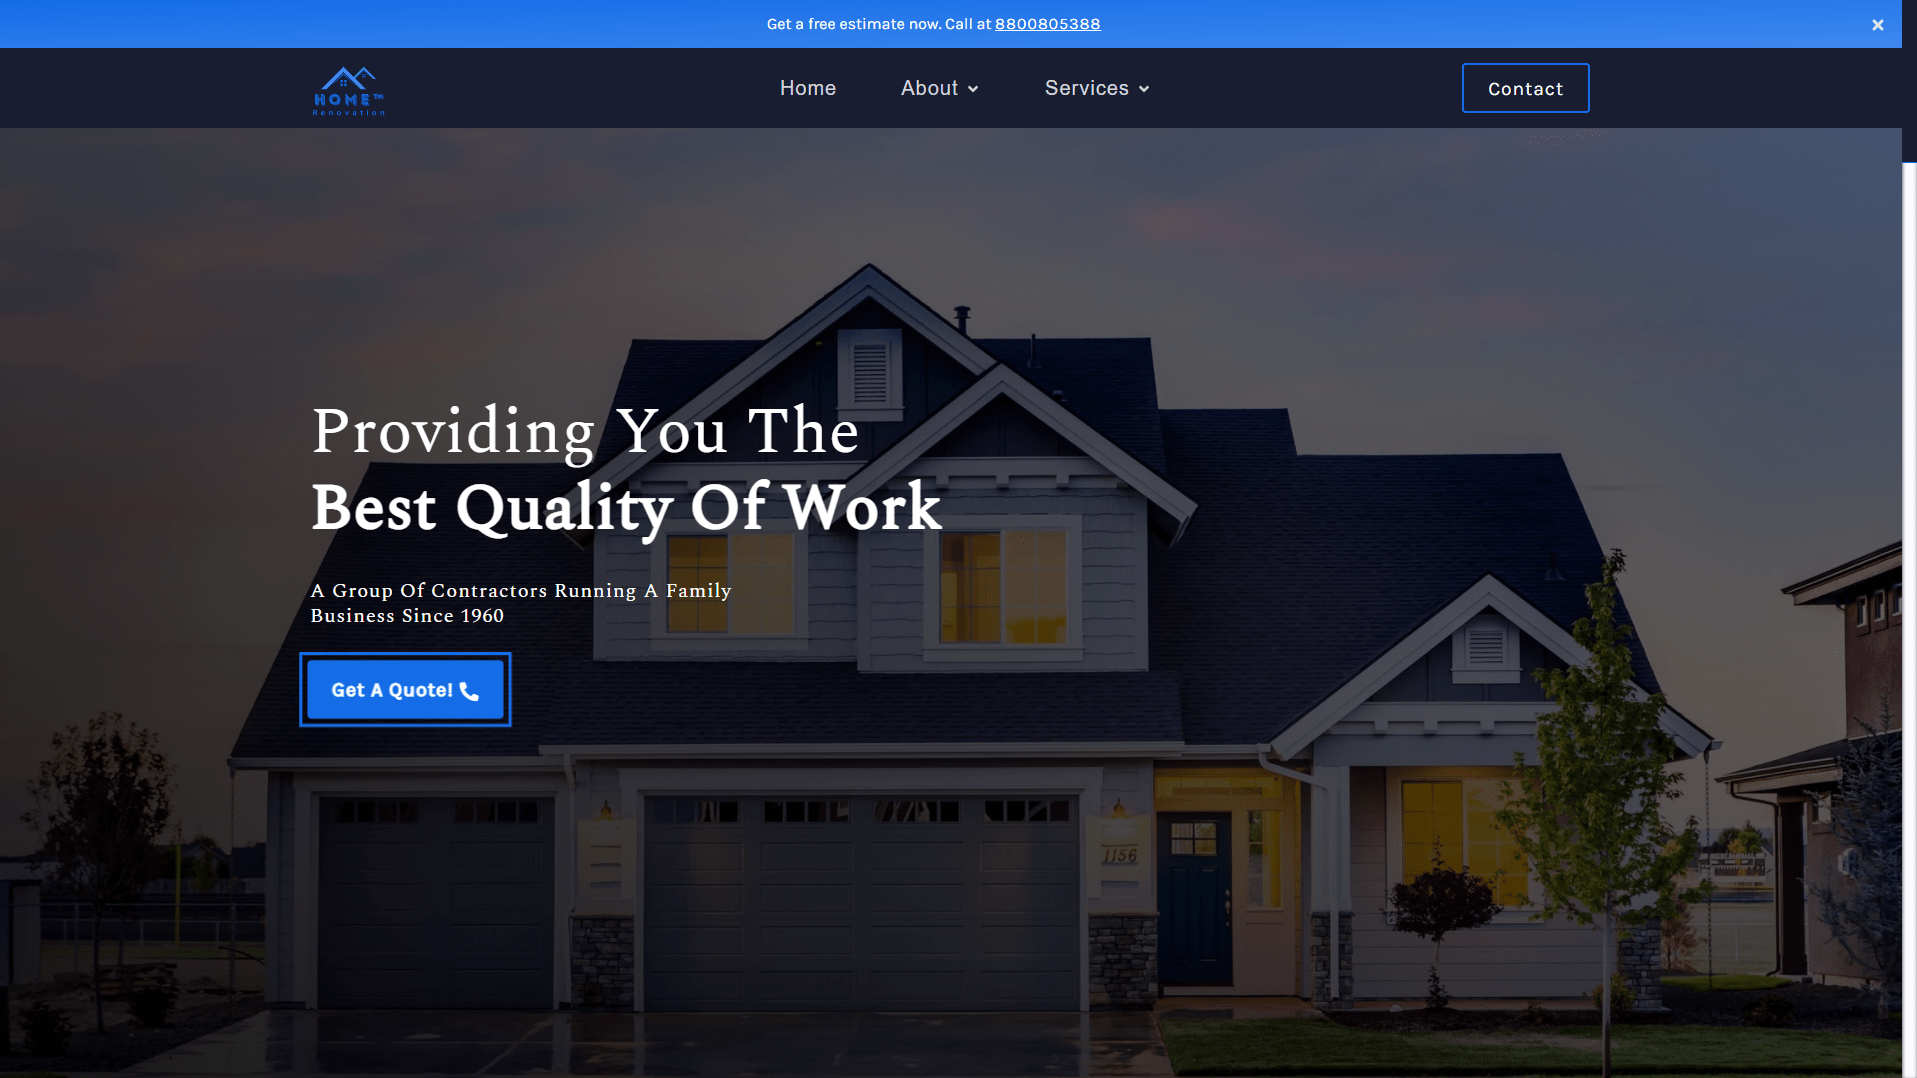
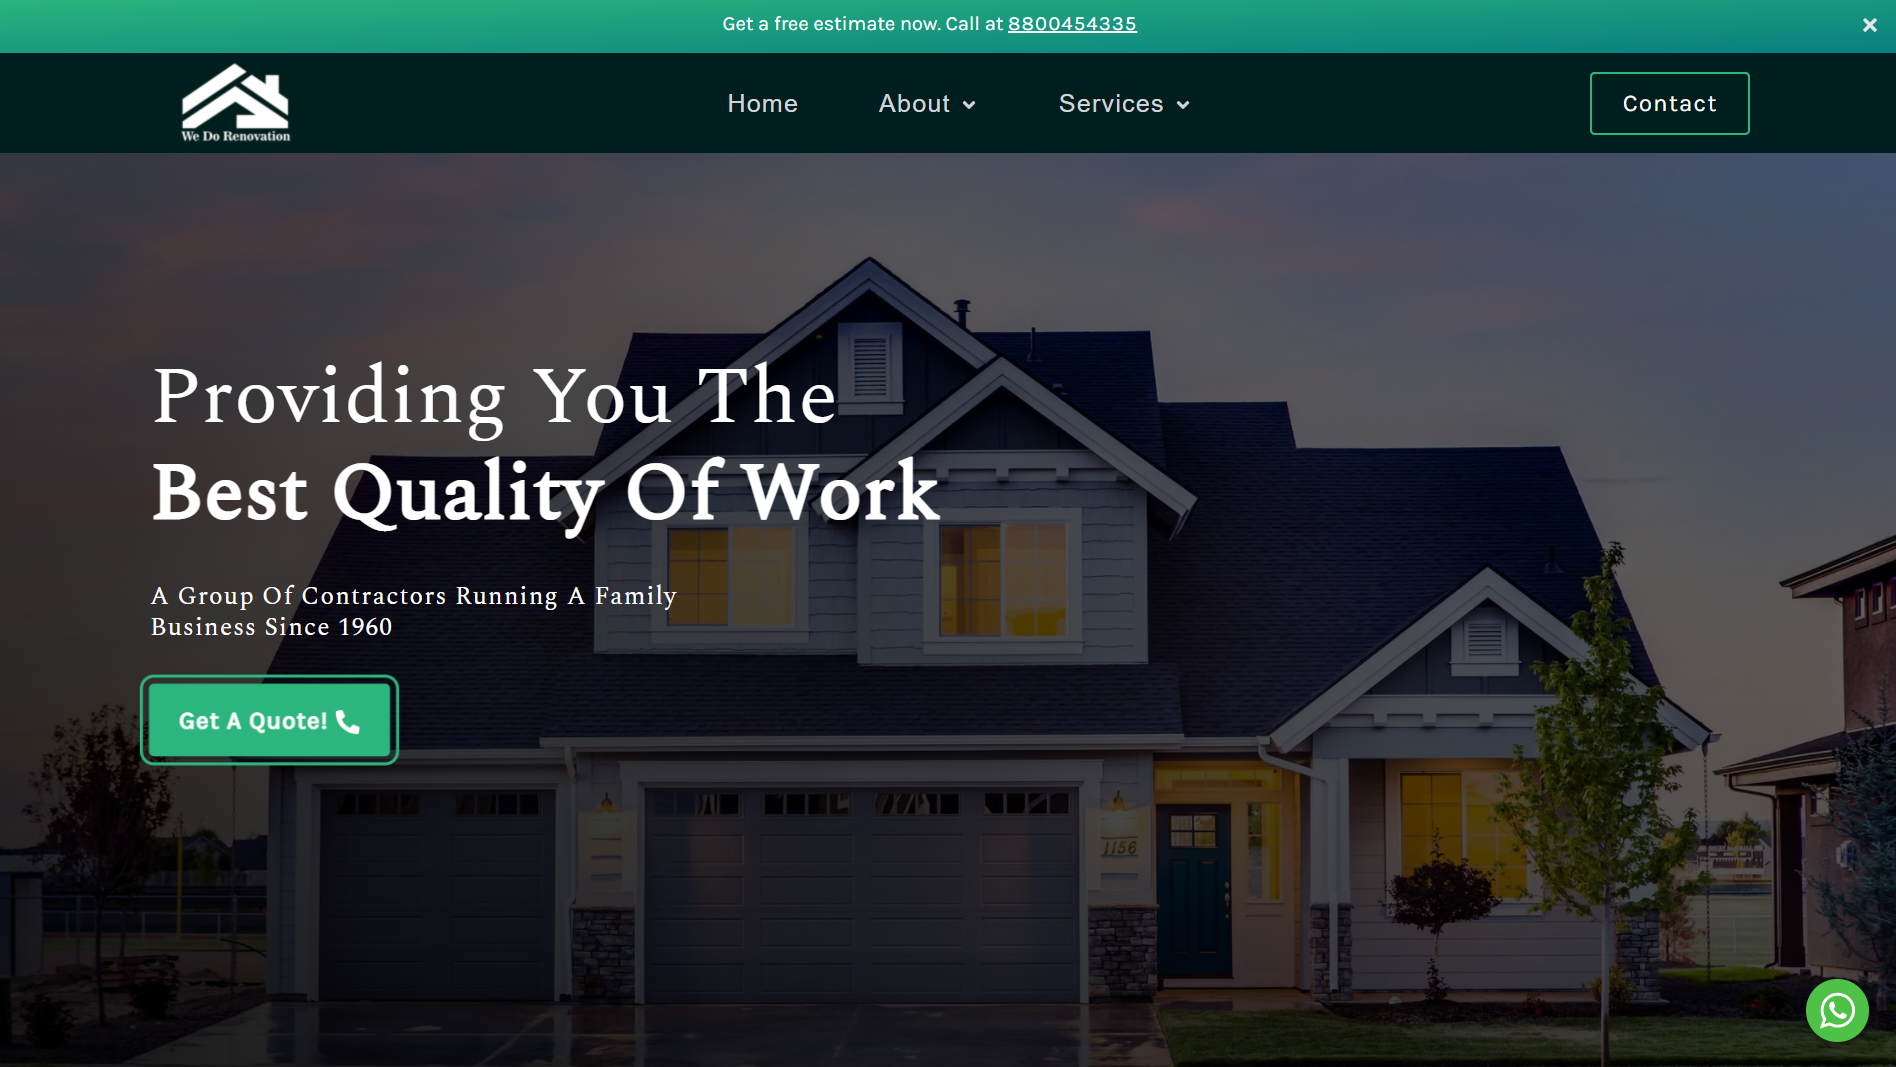
primary color switched to green

diff --git a/src/index.css b/src/index.css
@@ -9,19 +9,19 @@ html {
 
 :root {
   /*- primary colors */
-  --clr-primary: #146ce7;
+  /* --clr-primary: #146ce7;
   --clr-primary-light: #3f88ee;
-  --clr-secondary: #181d31;
+  --clr-secondary: #181d31; */
   --clr-gradient: linear-gradient(
     to bottom right,
-    var(--clr-primary-light),
-    var(--clr-primary)
+    var(--clr-primary),
+    var(--clr-primary-light)
   );
 
   /* testing colors */
-  --clr-primary: #db9f0f;
-  --clr-primary-light: #ffe66d;
-  --clr-secondary: #121420;
+  --clr-primary: #2cb67d;
+  --clr-primary-light: #078080;
+  --clr-secondary: #001e1d;
 
   /*- grey colors */
   --grey-1: #f9fafb;

diff --git a/src/components/Modal.js b/src/components/Modal.js
@@ -69,8 +69,9 @@ const Wrapper = styled.section`
   .modal-container {
     transform: scale(0);
     transition: var(--transition);
-    background: var(--grey-4);
+    background: var(--clr-gradient);
     border-radius: var(--borderRadius);
+    color: var(--white);
     width: 90vw;
     /* height: 30vh; */
     max-width: 768px;
@@ -91,8 +92,8 @@ const Wrapper = styled.section`
     }
 
     a {
-      color: var(--black);
       text-decoration: underline;
+      color: var(--white);
     }
   }
   .show-modal .modal-container {

diff --git a/README.md b/README.md
@@ -10,6 +10,10 @@ A website built with reactjs for a client who runs a local home renovation compa
 
 ## Stack
 
+- Reactjs
+- styled-components
+- Context API
+
 #### Resources
 
 - [Figma - Website Design](https://www.figma.com/)
